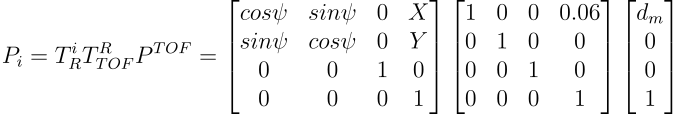
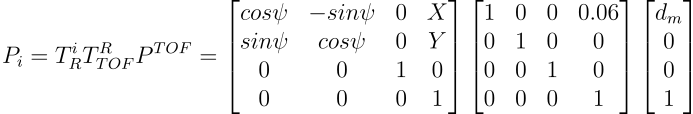
a

diff --git a/Labs/Lab7.md b/Labs/Lab7.md
@@ -162,7 +162,7 @@ Since \\( \psi \\) in \\( T_R^i \\) is the only non-zero angle in the entire equ
 <center><img src="/ECE4960/assets/images/lab7/tm2.png" width="800"></center> 
 
 <!-- P_i = T_R^i T_{TOF}^R P^{TOF} = \begin{bmatrix}
-cos\psi & sin\psi & 0 & X\\
+cos\psi & -sin\psi & 0 & X\\
 sin\psi & cos\psi & 0 & Y\\
 0 & 0 & 1 & 0 \\
 0 & 0 & 0 & 1
@@ -177,4 +177,10 @@ sin\psi & cos\psi & 0 & Y\\
 d_m \\ 0 \\ 0 \\ 1
 \end{bmatrix} -->
 
-To perform a sanity check, I calculated a few values by hand when the robot is at different angles, and the values check out.
+To perform a sanity check, I calculated a few values by hand when the robot is at different angles, and the values check out. Then, using this matrix, I plotted the data from one rotation in Cartesian coordinates.
+
+<center><img src="/ECE4960/assets/images/lab7/mappingt.png" width="500"></center> 
+
+As expected, they have the same shape. This is then plotted to the plotter.
+
+<center><img src="/ECE4960/assets/images/lab7/plotter.png" width="500"></center> 
